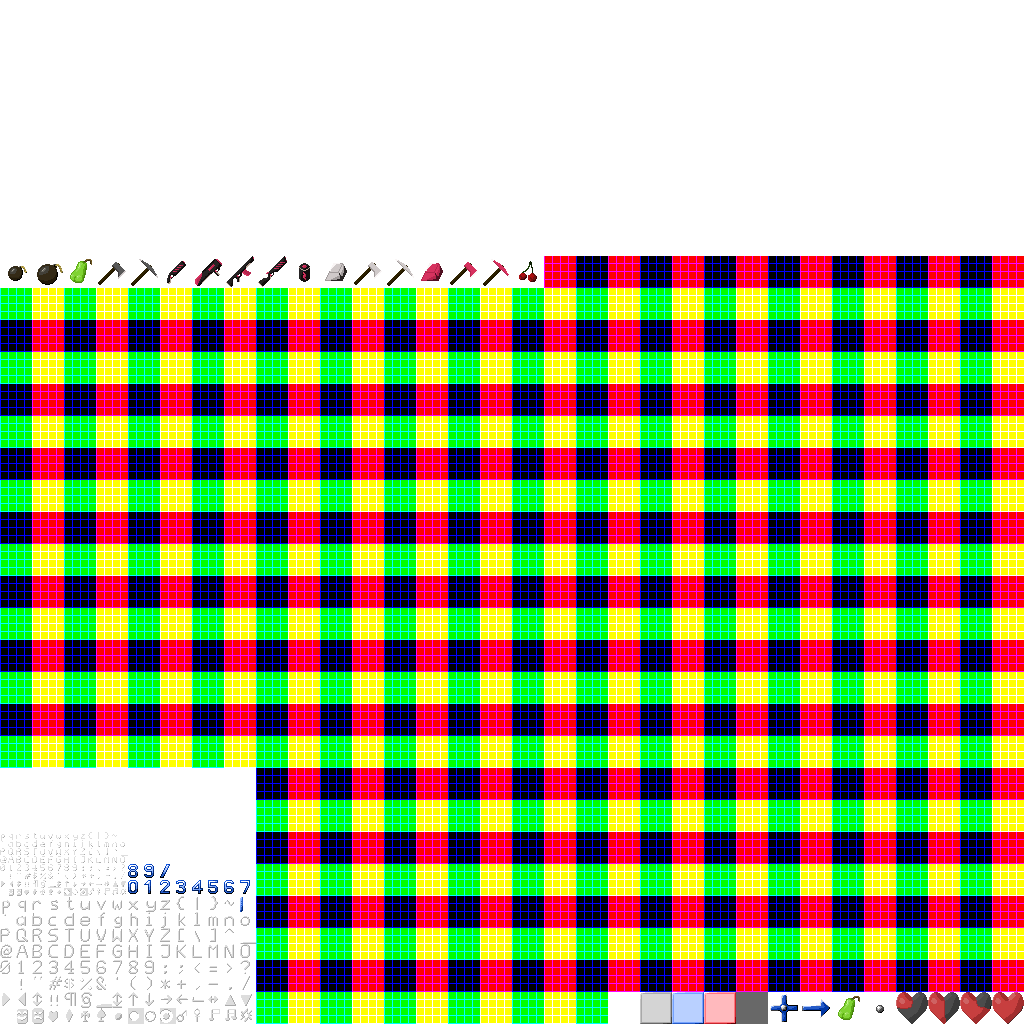
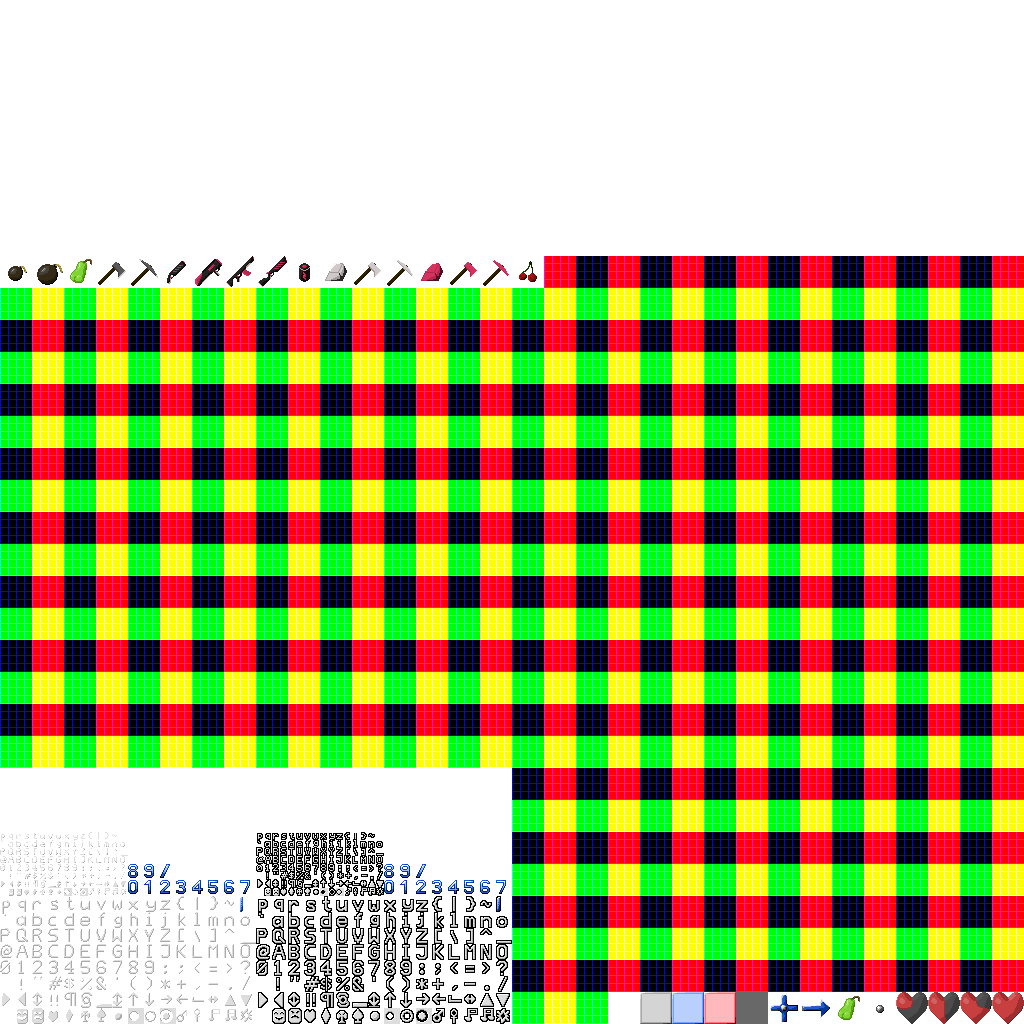
Added a way to have multiple fonts and added a second one with a black outline, increasing legibility on light backgrounds

Changed region(s): [[0.25, 0.75, 0.5, 1.0]]

diff --git a/client/src/gui/gui.c b/client/src/gui/gui.c
@@ -213,6 +213,7 @@ void drawDebuginfo(){
 		textMeshPrintf(guim,"%.*s",13 + ((ticks++ >> 4)&3),"Respawning...");
 	}
 	guim->size = 1;
+	guim->font = 1;
 
 	guim->sx   = screenWidth;
 	guim->sy   = 4;
@@ -223,10 +224,13 @@ void drawDebuginfo(){
 	textMeshPrintf(guim,"FPS %02.0f\n",curFPS);
 
 	vboTrisCount = 0;
-	if(!optionDebugInfo){return;}
+	if(!optionDebugInfo){
+		guim->font = 0;
+		return;
+	}
 
 	guim->sx   =  4;
-	guim->sy   = 56;
+	guim->sy   = getTilesize();
 	textMeshPrintf(guim,"Player     X: %05.2f VX: %02.4f GVX: %02.4f\n",player->pos.x,player->vel.x,player->gvel.x);
 	textMeshPrintf(guim,"Player     Y: %05.2f VY: %02.4f GVY: %02.4f\n",player->pos.y,player->vel.y,player->gvel.y);
 	textMeshPrintf(guim,"Player     Z: %05.2f VZ: %02.4f GVZ: %02.4f\n",player->pos.z,player->vel.z,player->gvel.z);
@@ -248,6 +252,8 @@ void drawDebuginfo(){
 	textMeshPrintf(guim,"Uncompressed: %sB\n",getHumanReadableSize(recvUncompressedBytesCurrentSession));
 	textMeshPrintf(guim,"Comp. Ratio : %2.2fX\n",(float)recvUncompressedBytesCurrentSession / (float)recvBytesCurrentSession);
 	textMeshPrintf(guim,"Canvas Size : %ix%i\n",screenWidth,screenHeight);
+
+	guim->font = 0;
 
 }
 
@@ -428,6 +434,7 @@ void drawChat(){
 	guim->sy   = screenHeight - (9*16) - (chatPanel->h-8);
 	guim->sx   = 24;
 	guim->size = 1;
+	guim->font = 1;
 	for(int i=0;i<8;i++){
 		textMeshAddString(guim,chatLog[i]);
 		guim->sy += 8;
@@ -437,6 +444,7 @@ void drawChat(){
 		textMeshAddString(guim,chatLog[i]);
 		guim->sy += 16;
 	}
+	guim->font = 0;
 }
 
 void drawHud(){

diff --git a/client/src/gfx/textMesh.c b/client/src/gfx/textMesh.c
@@ -109,7 +109,7 @@ void textMeshAddGlyph(textMesh *m, int x, int y, int size, u8 c){
 		glyphSize = 1.f / 128.f;
 	}
 
-	gx = ((float)(c&0x0f))*glyphSize;
+	gx = ((float)(c&0x0f))*glyphSize + (m->font * 1.f/4.f);
 	gy = ((float)(63-((c>>4)&0x0f)))*glyphSize;
 	if(size == 1){
 		gy = ((float)(15-((c>>4)&0x0f)))*glyphSize + 24.f/32.f;

diff --git a/common/src/gfx_structs.h b/common/src/gfx_structs.h
@@ -24,7 +24,7 @@ typedef struct vertex2D {
 
 typedef struct {
 	vertex2D dataBuffer[1<<14];
-	 int sx,sy,size;
+	 int sx,sy,size,font;
 	 int dataCount;
 	 int vboSize;
 	uint vbo,usage;
